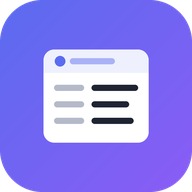
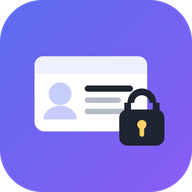
앱 아이콘 변경: 신분증 카드 + 자물쇠

Changed region(s): [[0.1562, 0.25, 0.875, 0.7812]]

diff --git a/sw.js b/sw.js
@@ -1,6 +1,6 @@
 // 오프라인에서도 열리도록 앱 파일을 캐시합니다. (개인 데이터는 캐시하지 않음 — 휴대폰의 localStorage에만 저장)
-const CACHE = 'myinfo-v2';
-const FILES = ['./', './index.html', './manifest.json', './icon.svg', './icon-192.png', './icon-512.png'];
+const CACHE = 'myinfo-v3';
+const FILES = ['./', './index.html', './manifest.json', './icon.svg', './icon-192.png', './icon-512.png', './icon-maskable.png'];
 
 self.addEventListener('install', e => {
   e.waitUntil(caches.open(CACHE).then(c => c.addAll(FILES)));
